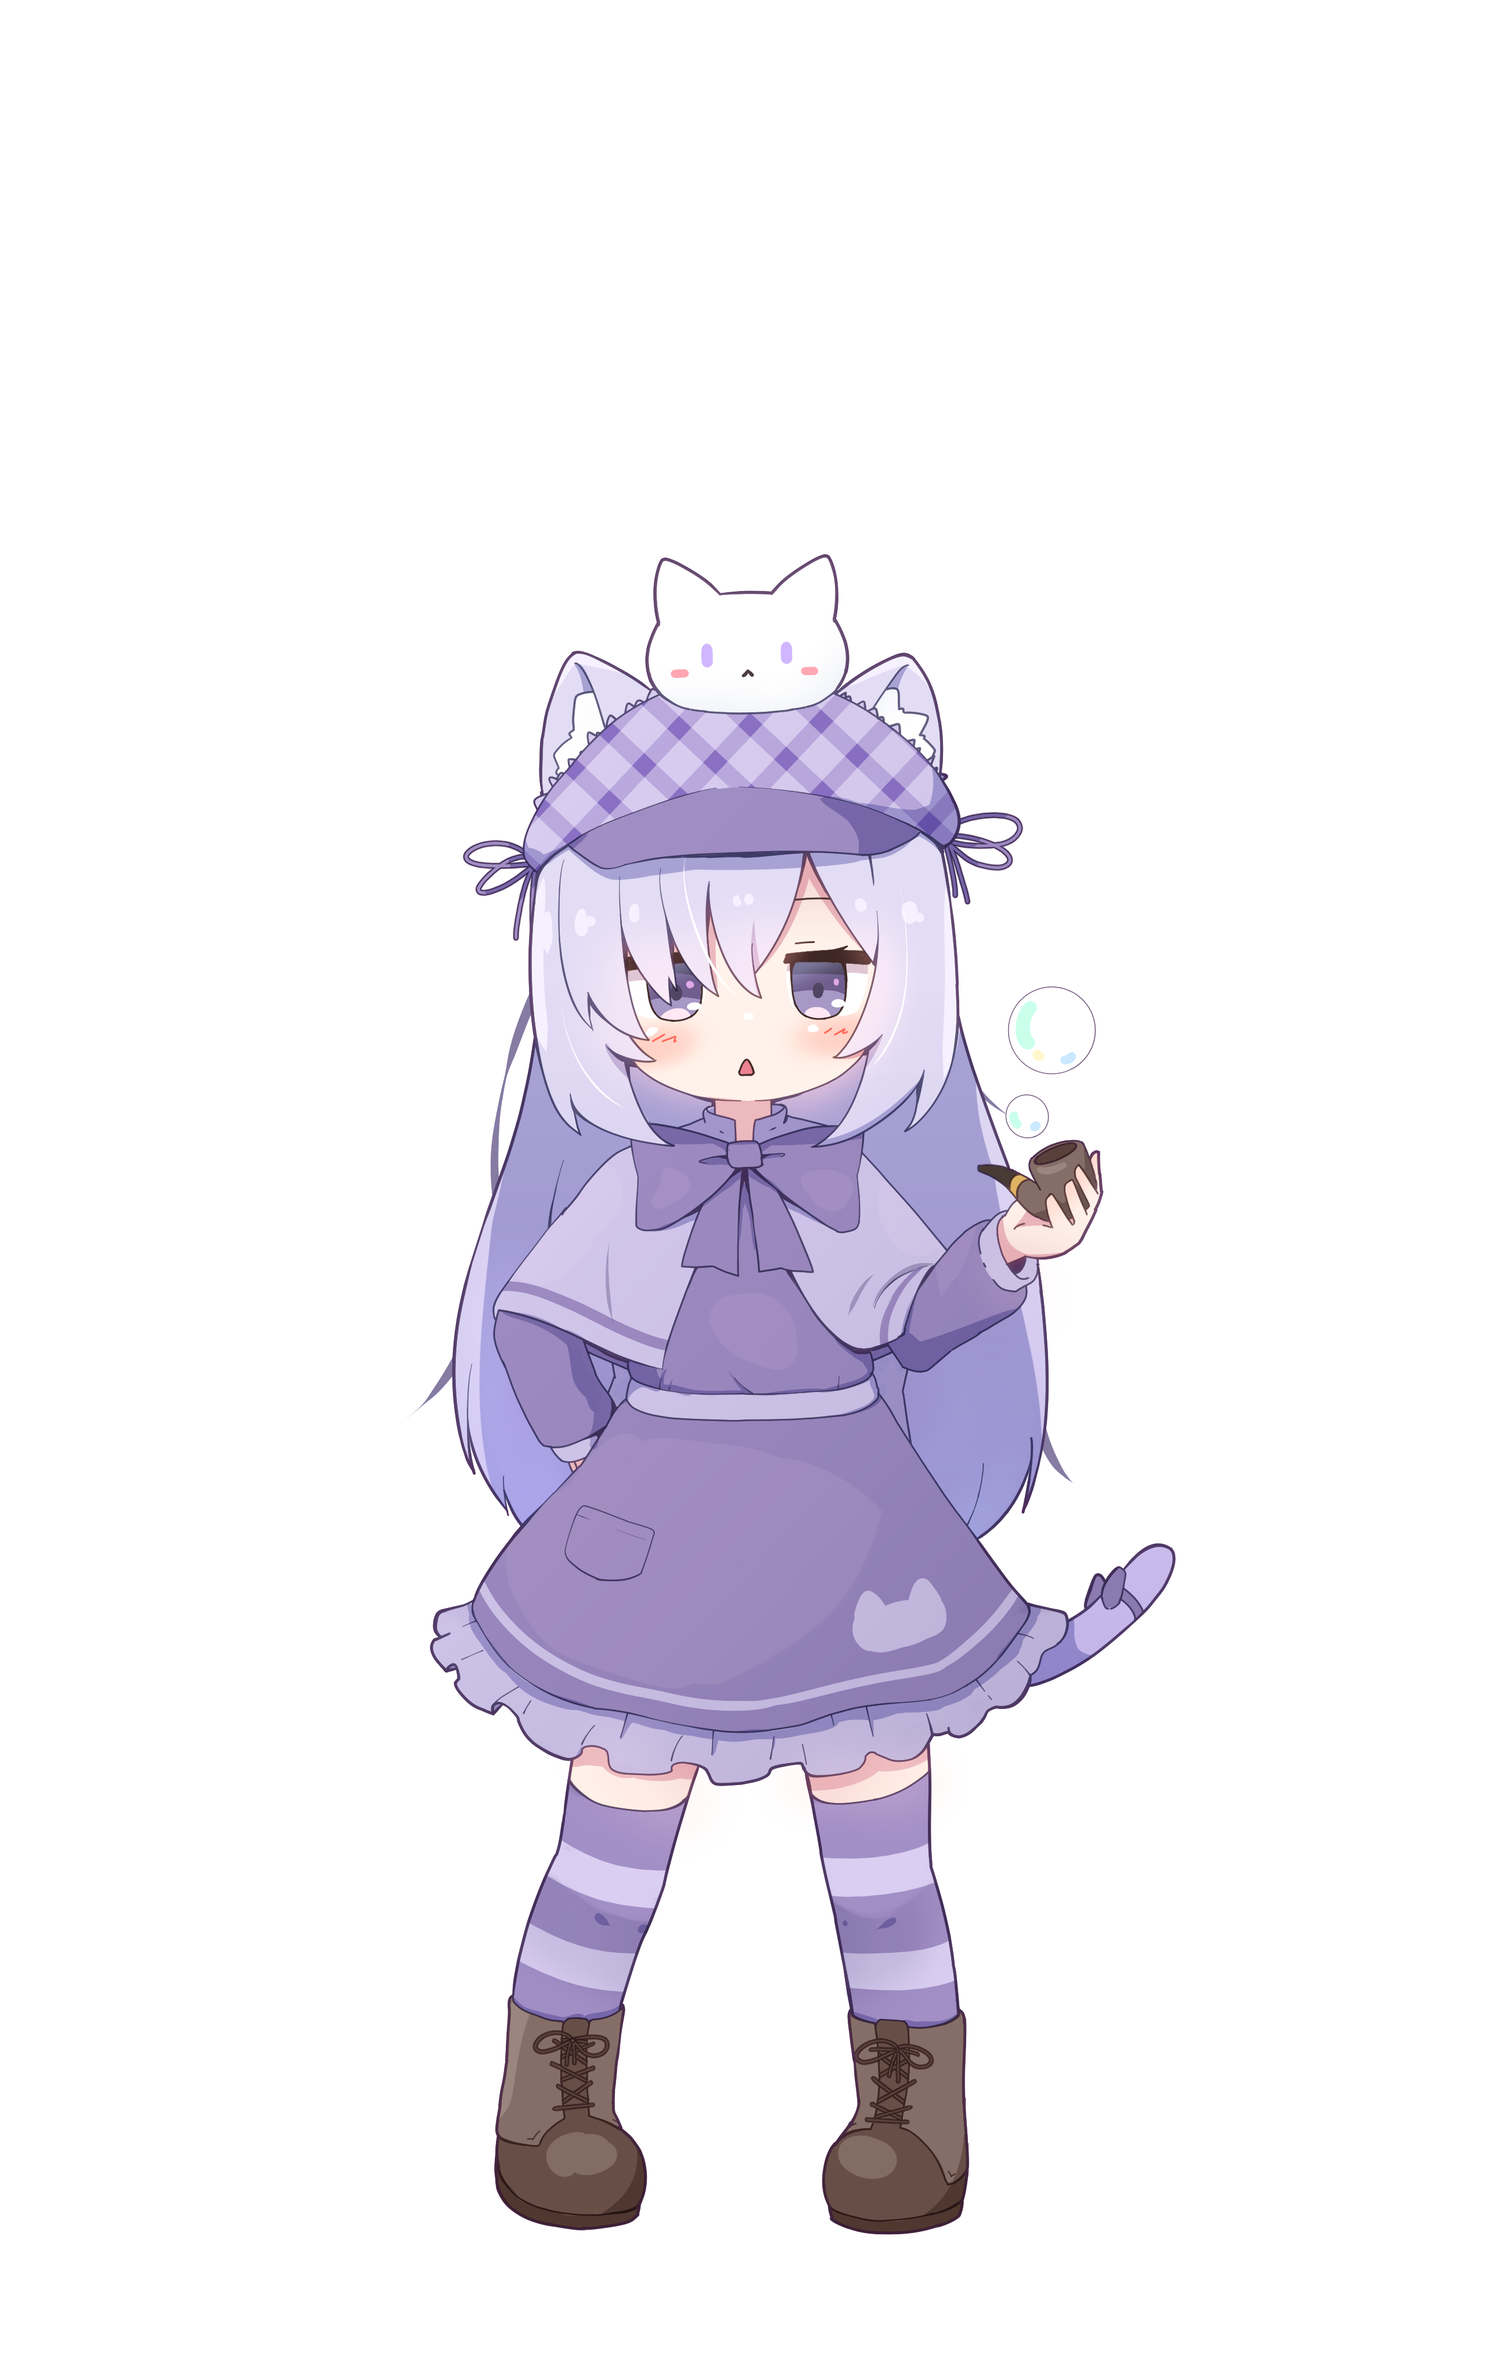
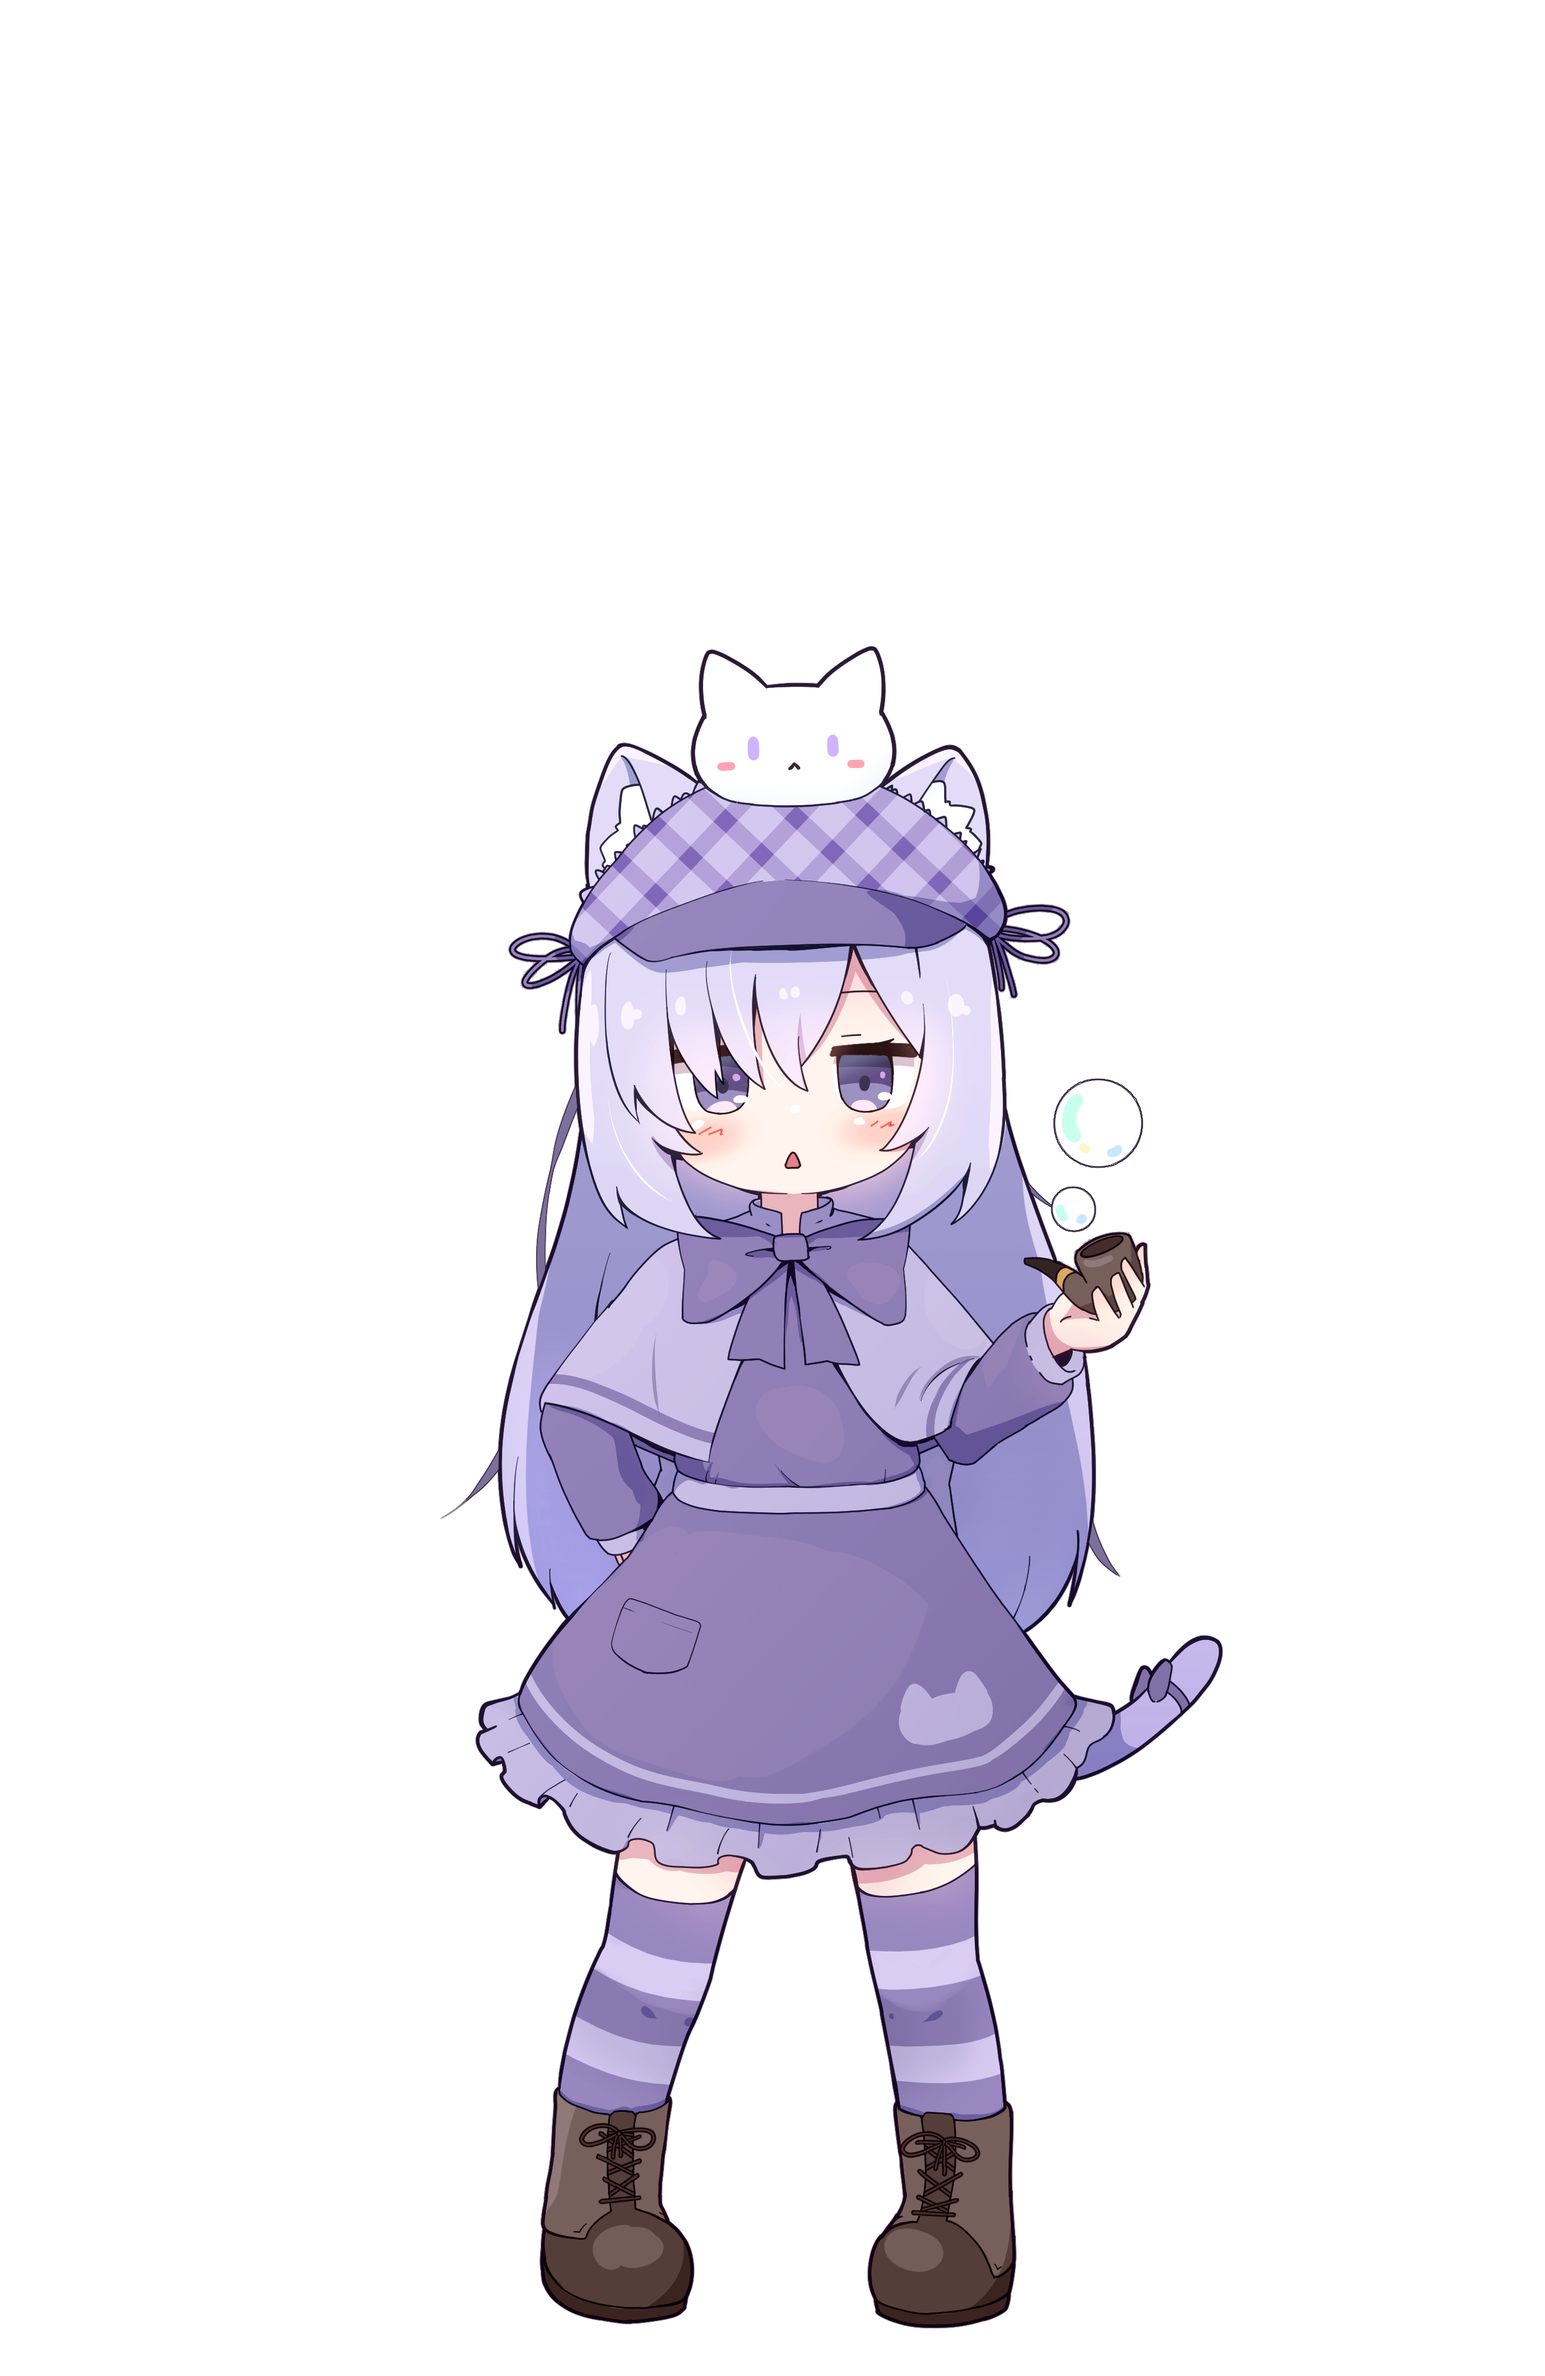
fix: 画像差し替え

Changed region(s): [[0.2785, 0.2482, 0.8046, 0.9929]]

diff --git a/src/components/pages/events/202604-april-fool/common/casts.ts b/src/components/pages/events/202604-april-fool/common/casts.ts
@@ -1,6 +1,7 @@
 import { getEntry } from "astro:content";
 import ImageHiraxu from "@assets/images/events/202604-april-fool/chara-hiraxu.png";
 import ImageOuka from "@assets/images/events/202604-april-fool/chara-ouka.png";
+import ImageSao from "@assets/images/events/202604-april-fool/chara-sao.png";
 import ImageStora from "@assets/images/events/202604-april-fool/chara-stora.png";
 
 import type { Cast } from "@content/casts";
@@ -33,8 +34,7 @@ const IMAGE_MAP = {
   桃小姫ストラ: ImageStora,
   くるりおうか: ImageOuka,
   "ひらくぅ。": ImageHiraxu,
-  // TODO: まだイラストできてない. でき次第差し替える
-  "sao*": ImageStora,
+  "sao*": ImageSao,
 } as const satisfies Record<MainCastId, ImageMetadata>;
 
 export async function loadCasts(): Promise<AprilFoolEventMainCast[]> {
